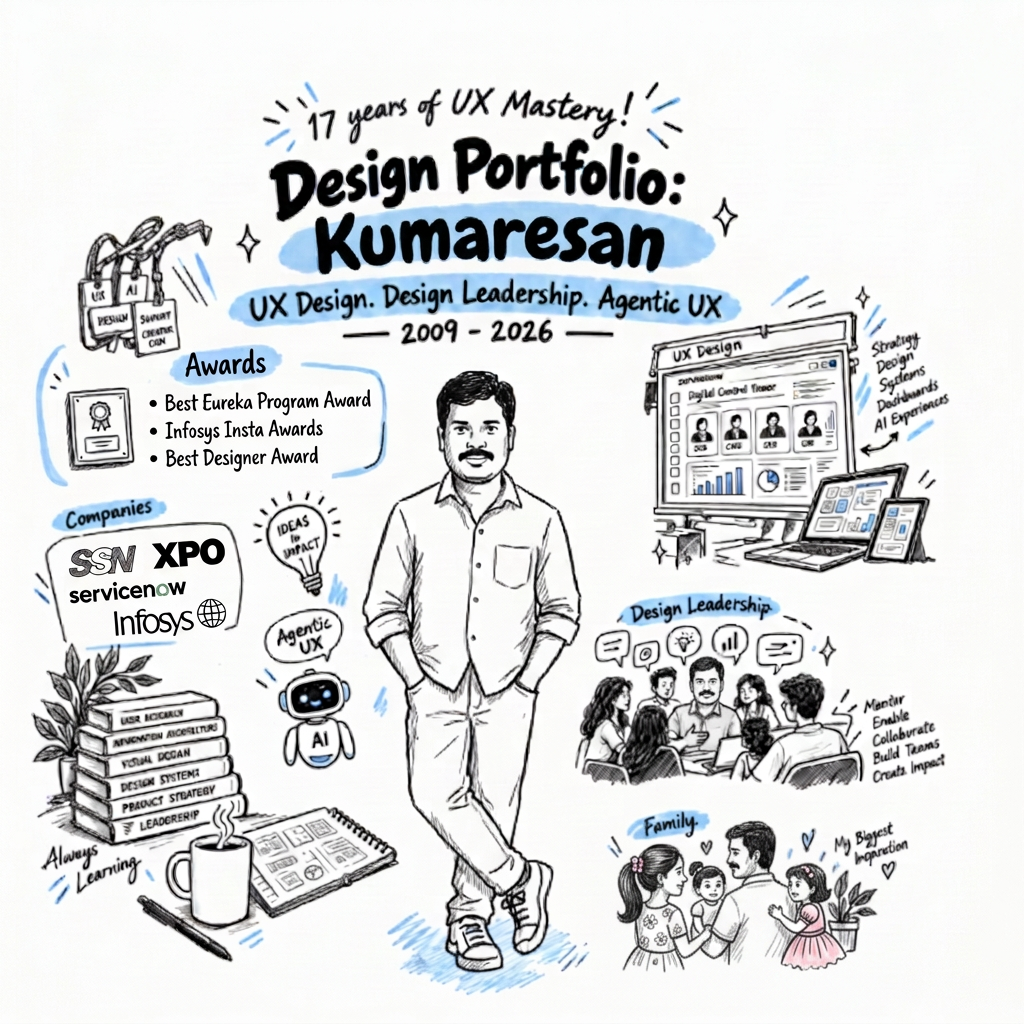
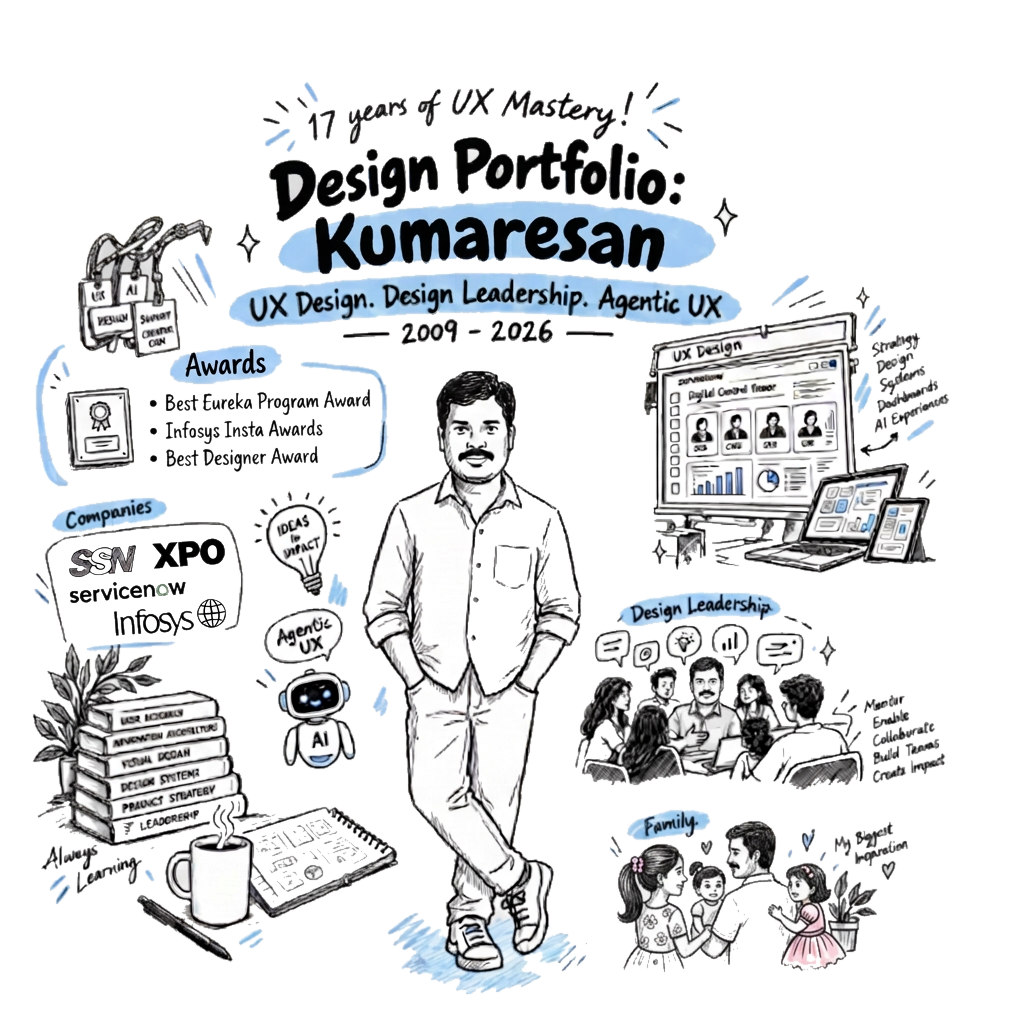
Use transparent hero illustration; drop panel background
- Key out grey background (edge region-grow) -> RGBA
- Remove panel bg so the art merges with the page

diff --git a/components/Hero.tsx b/components/Hero.tsx
@@ -85,7 +85,7 @@ export default function Hero() {
           transition={{ duration: 1, delay: 0.25, ease }}
           className="order-1 lg:order-2"
         >
-          <div className="mx-auto w-full max-w-md overflow-hidden rounded-2xl bg-[#fdfdfd] lg:max-w-none">
+          <div className="mx-auto w-full max-w-md lg:max-w-none">
             {/* eslint-disable-next-line @next/next/no-img-element */}
             <img
               src="/hero-illustration.png"
